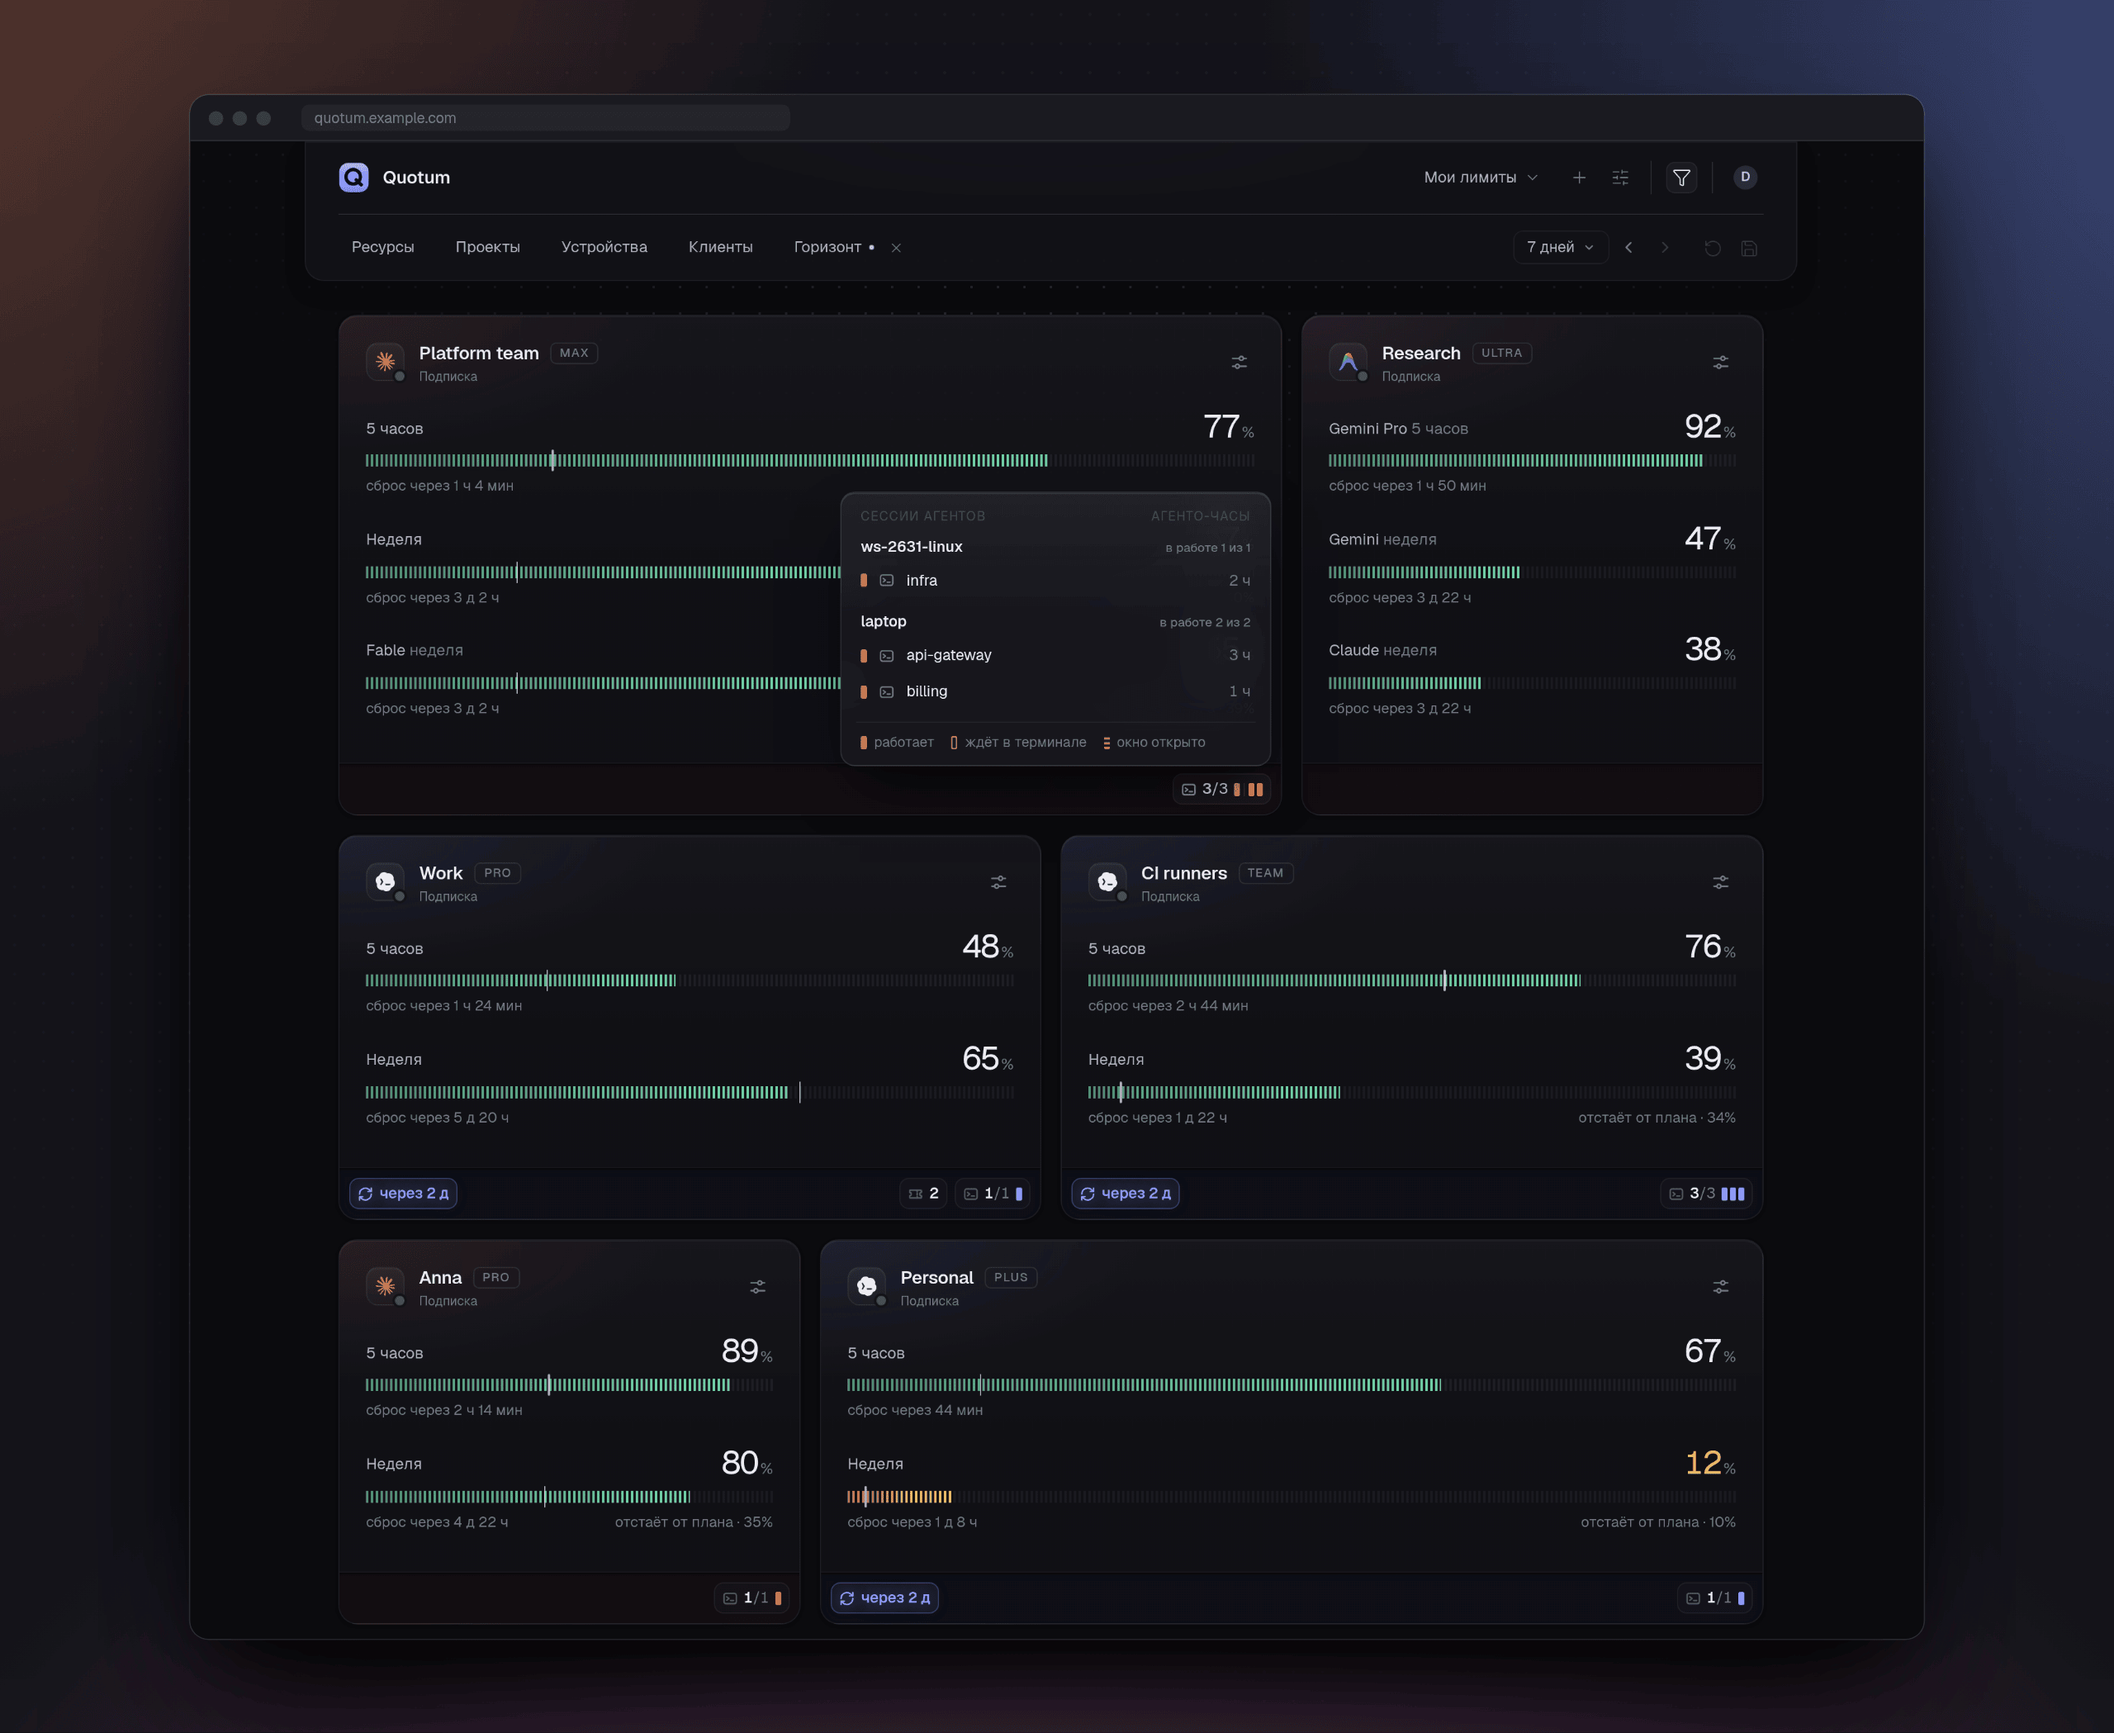
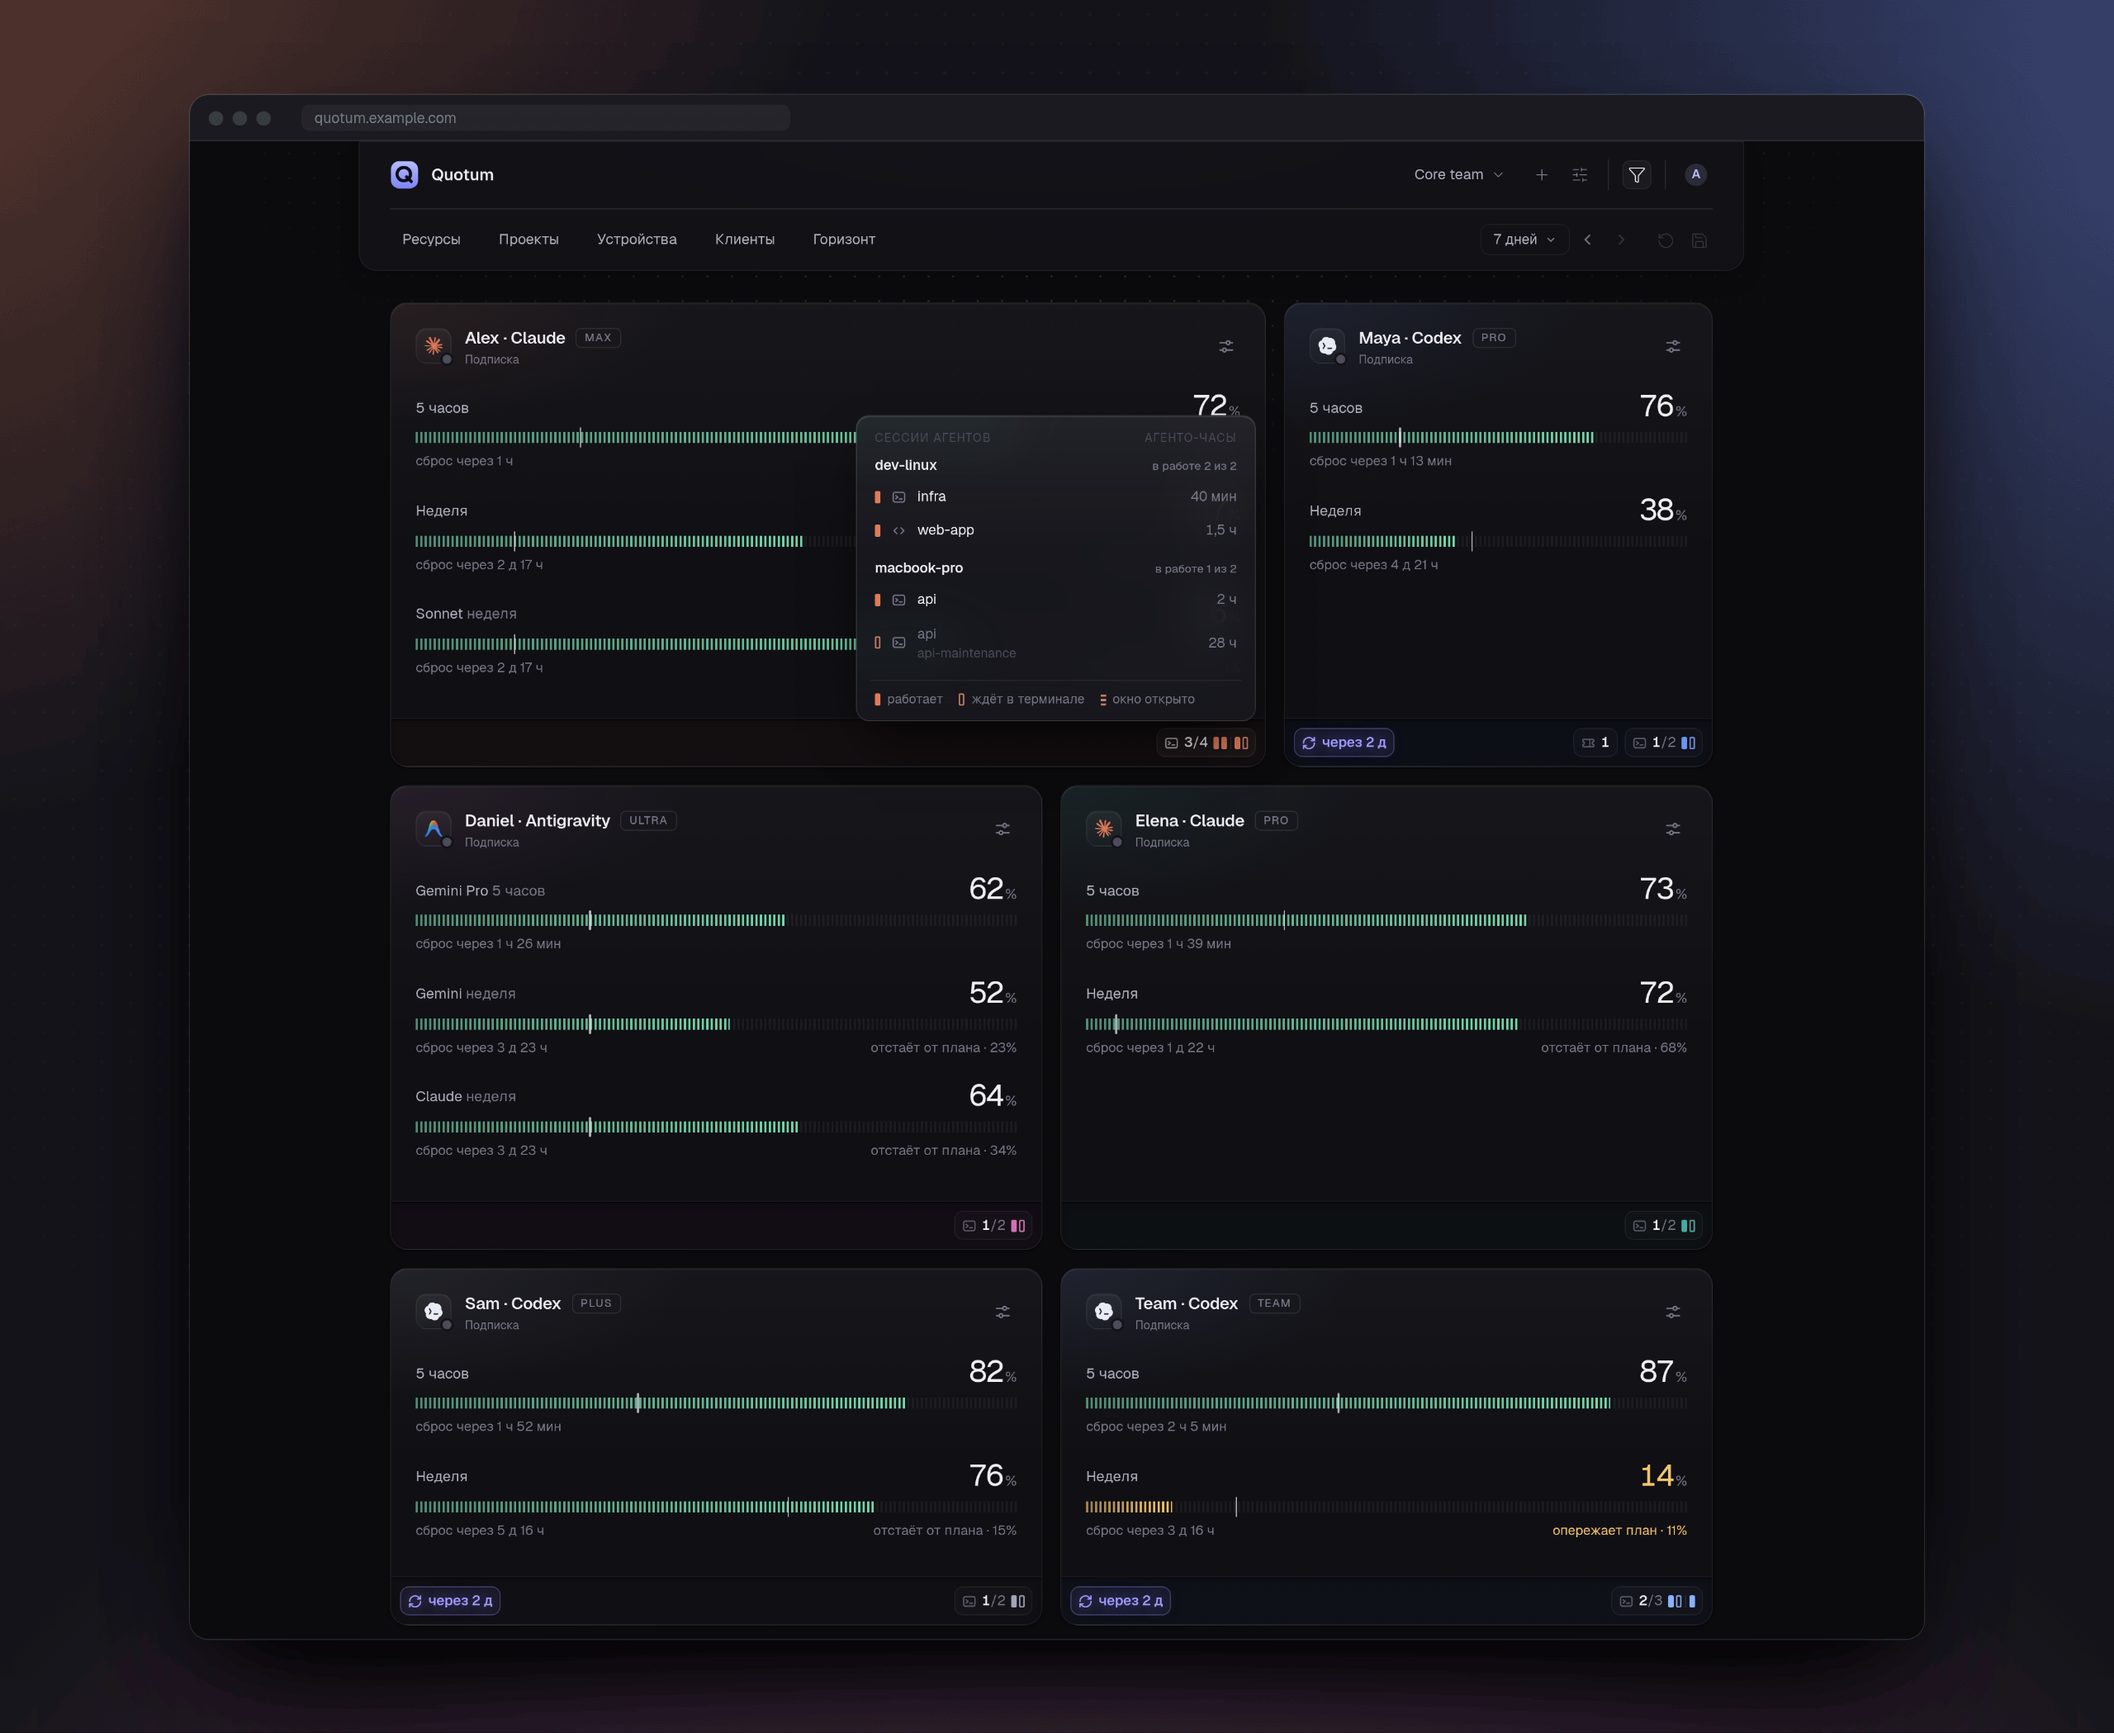
Refresh public screenshots from the team and local showcases

diff --git a/apps/hub/demo/desktopCapture.ts b/apps/hub/demo/desktopCapture.ts
@@ -1,0 +1,92 @@
+/** Serve the desktop screenshot fixture through the production hub's local entry point. */
+import {spawn} from 'node:child_process';
+import {mkdtempSync, rmSync} from 'node:fs';
+import {tmpdir} from 'node:os';
+import path from 'node:path';
+import {createInterface} from 'node:readline';
+import {newSecret} from '../server/domain/auth.js';
+import {Agent} from './client.js';
+import {addressOf, Demo, DEMO_SECRET_KEY, prepare} from './index.js';
+import {machineInfo, machines, sessionsAt} from './model.js';
+import {SHOWCASE_DESKTOP as set} from './showcaseData.js';
+
+const port = process.env.QUOTUM_PORT;
+// This disposable stand only listens on loopback and uses its own database and secrets.
+for (const key of Object.keys(process.env)) if (key.startsWith('QUOTUM_')) delete process.env[key];
+const address = addressOf({QUOTUM_PORT: port});
+await prepare(address);
+const dataDir = mkdtempSync(path.join(tmpdir(), 'quotum-desktop-capture-'));
+const stop = new AbortController();
+for (const signal of ['SIGINT', 'SIGTERM', 'SIGHUP'] as const)
+  process.once(signal, () => stop.abort());
+const demo = new Demo({
+  set,
+  scene: set.scene,
+  still: true,
+  dataDir,
+  address,
+  onExit: () => stop.abort(new Error('The demo hub stopped during seeding')),
+});
+try {
+  const stand = await demo.run(stop.signal);
+  await demo.stop();
+  stop.signal.throwIfAborted();
+
+  const key = newSecret('qt_s');
+  const token = newSecret('qt_m');
+  const hub = spawn(process.execPath, ['dist/server/index.js'], {
+    stdio: ['pipe', 'pipe', 'inherit'],
+    env: {
+      ...process.env,
+      QUOTUM_PORT: String(address.port),
+      QUOTUM_DATA_DIR: dataDir,
+      QUOTUM_LOCAL_KEY: key,
+      QUOTUM_LOCAL_TOKEN: token,
+      QUOTUM_SECRET_KEY: DEMO_SECRET_KEY,
+      QUOTUM_RESETS: 'off',
+    },
+  });
+  const closed = new Promise<number | null>((resolve, reject) => {
+    hub.once('close', resolve);
+    hub.once('error', reject);
+  });
+  const closeInput = () => hub.stdin.end();
+  stop.signal.addEventListener('abort', closeInput, {once: true});
+  try {
+    // The same readiness event and stdin lifetime as the packaged desktop controller.
+    let started = false;
+    for await (const line of createInterface({input: hub.stdout})) {
+      const event = JSON.parse(line) as {event: string; local?: boolean};
+      if (event.event !== 'start' || !event.local) continue;
+      started = true;
+      const [machine] = machines(set);
+      const sessions = sessionsAt(set, machine, stand.start, 0);
+      const response = await fetch(address.base + '/v1/sessions', {
+        method: 'POST',
+        headers: {'content-type': 'application/json', authorization: 'Bearer ' + token},
+        body: JSON.stringify({
+          version: 1,
+          agent: Agent.VERSION,
+          machine: machineInfo(machine),
+          sentAt: new Date().toISOString(),
+          sessions,
+        }),
+      });
+      if (!response.ok || (await response.json()).accepted !== sessions.length)
+        throw new Error('The local hub did not accept the demo sessions');
+      console.log(address.base + '/local?key=' + key);
+      break;
+    }
+    const code = await closed;
+    if (!stop.signal.aborted && (code !== 0 || !started))
+      throw new Error('The local hub stopped before completing the capture');
+  } finally {
+    closeInput();
+    await closed;
+  }
+} catch (error) {
+  if (!stop.signal.aborted || stop.signal.reason?.name !== 'AbortError') throw error;
+} finally {
+  await demo.stop();
+  rmSync(dataDir, {recursive: true, force: true, maxRetries: 5});
+}

diff --git a/CONTRIBUTING.md b/CONTRIBUTING.md
@@ -713,10 +713,11 @@ crops in the existing browser frame and coloured backdrop.
 On Linux, `make prepare-desktop` provides the bundled Electron in `desktop/resources/electron/`.
 It can capture the loopback page under Xvfb using the runtime in
 `.devkit/runtime/desktop.Dockerfile`. With CDP, set the device scale via
-`Emulation.setDeviceMetricsOverride` and use `Page.captureScreenshot` with a clip.
-Capture beyond the viewport for the tall analytics panels. Wait for the chart data
-and the bundled fonts before capturing either language. Optimize the PNGs and check
-the final dimensions, text and colour gradients at their published size.
+`Emulation.setDeviceMetricsOverride`. For analytics, use a 1240×2220 CSS-pixel
+viewport and scroll all four panels into view. Wait for the bars, series paths,
+forecast labels and bundled fonts to render. Capture the visible viewport with
+`Page.captureScreenshot({captureBeyondViewport: false})` and crop the panels from
+that image. Inspect each optimized PNG for legible text and populated plots.
 
 `pnpm run bench` (after `pnpm run build`) uses a still demo whose agents repeat their
 lists without working, opens Ana's board in headless Chrome and checks the budget in
